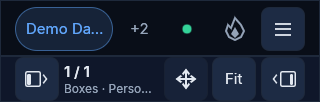
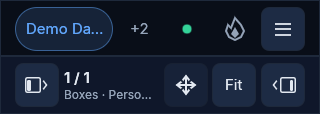
Refresh mobile bar evidence for consistent vertical padding

diff --git a/README.md b/README.md
@@ -1,10 +1,12 @@
 # Issue 219 mobile bars evidence
 
-Final stacked production revision: a534d6ed7298c836f8229b3c814f9a3b5bc23878. Parent PR #221 / verification base: 2026961c2b26bdb7a1f529f81113fc1d4fed7a68. Common base: 958b654ed5b2f8b00ce0d51777ace3c13df38afc.
+Current production revision: e28c41190937a9ab7250661028115e72cec1e8e6. Verification base: PR #221 at d6234df823a9d4d006c1665d563c0d21fe36bec9. Stack: #222 → #221 → #223. Common integration base: 958b654ed5b2f8b00ce0d51777ace3c13df38afc.
 
 All data is synthetic. Captures contain only application bars, navigation drawers and the image-free workflow-change dialog. Native scale is 1.
 
-Before images use 2d7f350cde42e04216e56c04dbcbd9ae86439204. Refreshed native bar/drawer images and Chromium images use the final issue diff on the parent above, committed as a534d6ed7298c836f8229b3c814f9a3b5bc23878. The retained keyboard-scroll and migration-discovery images use pre-stack revision ac144db3669fe79330860cdc63de08b1b8bbd739; the two combined workflow-change images use stacked revision 9654fc34768777d9f1817a2967d079c3cb750345. Their depicted content is unchanged by the final Boxes-label and Inspect-icon refinements.
+All header, review, migration, workflow-change dialog and Chromium captures were refreshed on d4478c6ca849d158a1be1d855bc7c4670870431d plus the four-file padding diff, committed as e28c41190937a9ab7250661028115e72cec1e8e6. The second bar now has six-point vertical frame padding at all widths. At 320×320, migration review and companion annotation retain 45- and 47-point canvas heights; their outer canvas gutter is six points. Bottom navigation is unchanged.
+
+Historical captures: before-presence-390.png and before-drawer-390.png use 2d7f350cde42e04216e56c04dbcbd9ae86439204. before-padding-390.png, after-drawer-390.png, drawer-short-320.png and inspect-icon-800.png use a534d6ed7298c836f8229b3c814f9a3b5bc23878. after-keyboard-scroll.png uses ac144db3669fe79330860cdc63de08b1b8bbd739. The retained drawer and icon crops depict unchanged content.
 
 | Image | Scenario and viewport |
 | --- | --- |
@@ -12,6 +14,9 @@ Before images use 2d7f350cde42e04216e56c04dbcbd9ae86439204. Refreshed native bar
 | after-presence-390.png | Presence preset, 390×844; dataset retained and second bar compact |
 | after-presence-600.png | Presence preset, 600×800; additional space available to dataset |
 | after-presence-320-short.png | Presence preset, 320×320; narrow bar allocation |
+| before-padding-390.png | Previous zero-padding compact second bar, 390×844; compare after-presence-390.png |
+| migration-review-padding-320.png | Migration review with six-point padding, 320×320 |
+| companion-padding-320.png | Companion annotation with six-point padding, 320×320 |
 | before-drawer-390.png | Original navigation drawer, 390×844 |
 | after-drawer-390.png | Aligned icon rows and reordered utility/account groups, 390×844 |
 | drawer-short-320.png | Scrollable drawer, 320×320 |
@@ -20,8 +25,8 @@ Before images use 2d7f350cde42e04216e56c04dbcbd9ae86439204. Refreshed native bar
 | review-correction-320.png | Review correction wraps when needed, 320×320 |
 | migration-discovery-390.png | Migration discovery retains phase context, 390×844 |
 | native-195-zoom-layout.png | Extreme logical-width header and context controls, 195×422 |
-| stack-workflow-change-390.png | Combined parent reason/type dialog and child bars, 390×844, native scale 1; Escape remains blocked |
-| stack-workflow-change-320.png | Combined short-screen dialog, 320×320, native scale 1; Tab/Enter acknowledgment tested |
+| stack-workflow-change-390.png | Combined parent reason/type dialog and child bars, 390×844, native scale 1; blocked underlying navigation |
+| stack-workflow-change-320.png | Combined short-screen dialog, 320×320, native scale 1; acknowledgment remains visible; keyboard behavior was tested before the padding follow-up |
 | inspect-icon-800.png | Inspect uses multiple image primitives in the icon-only top bar, 800×800, native scale 1 |
 | browser-390.png | Chromium review, 390×844 CSS pixels, DPR 1, zoom 100% |
 | browser-zoom-200.png | Chromium review, 390×844 CSS viewport, DPR 1, actual tab zoom 200% |
